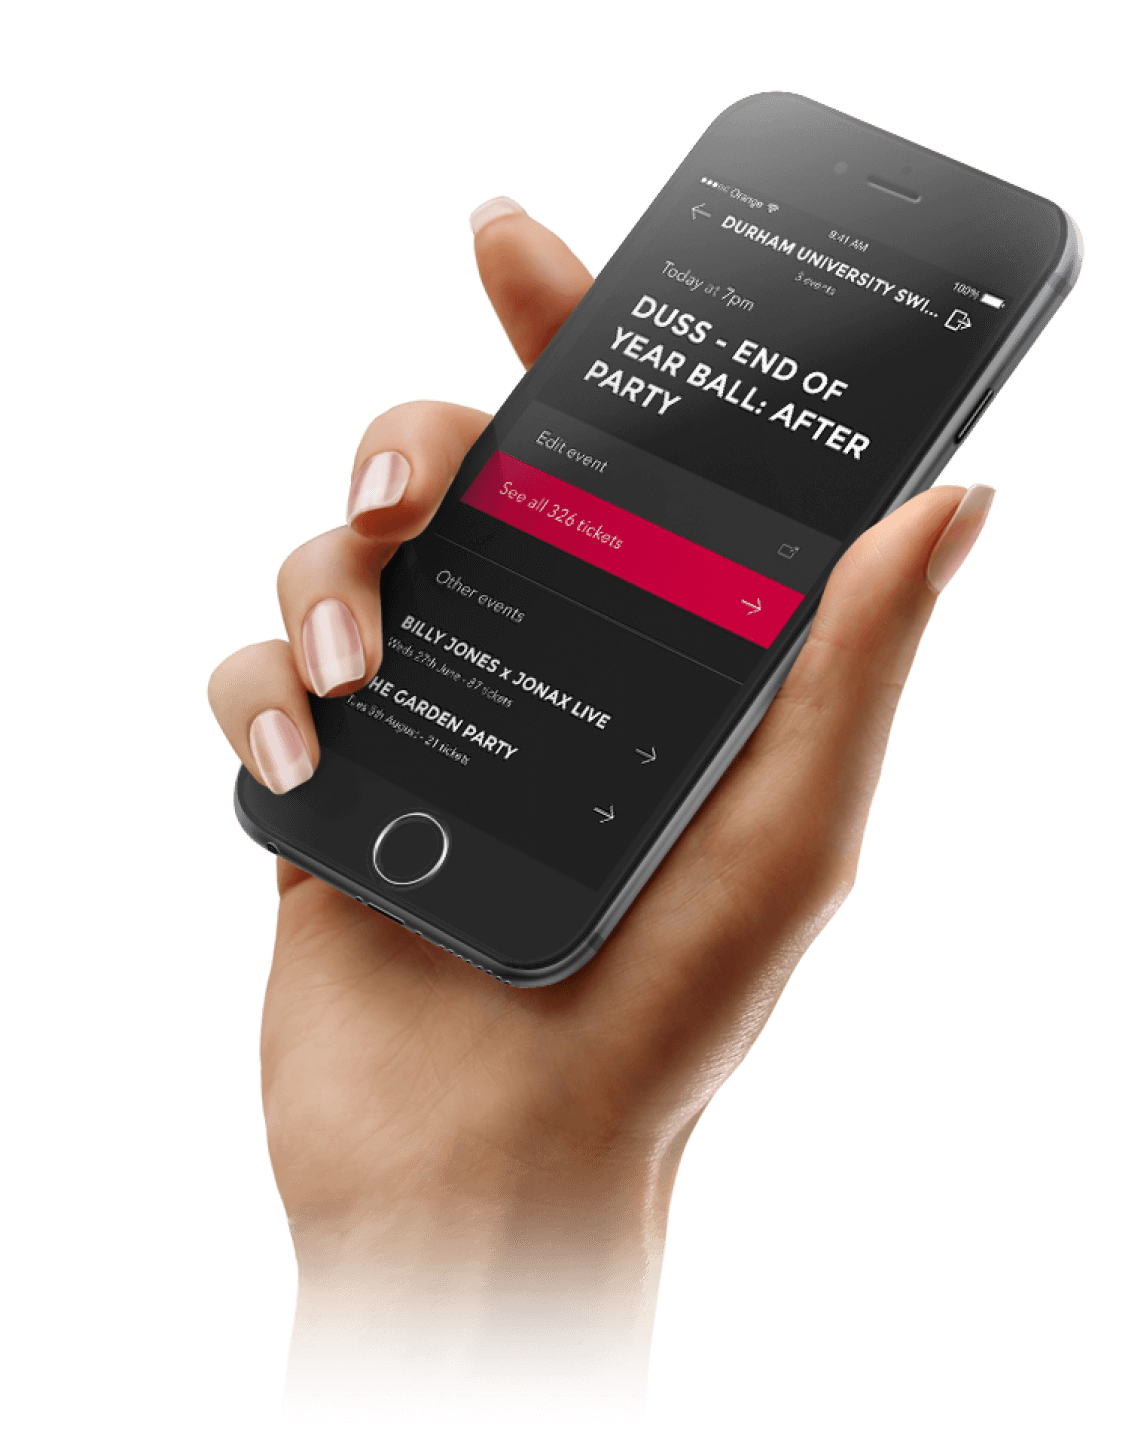
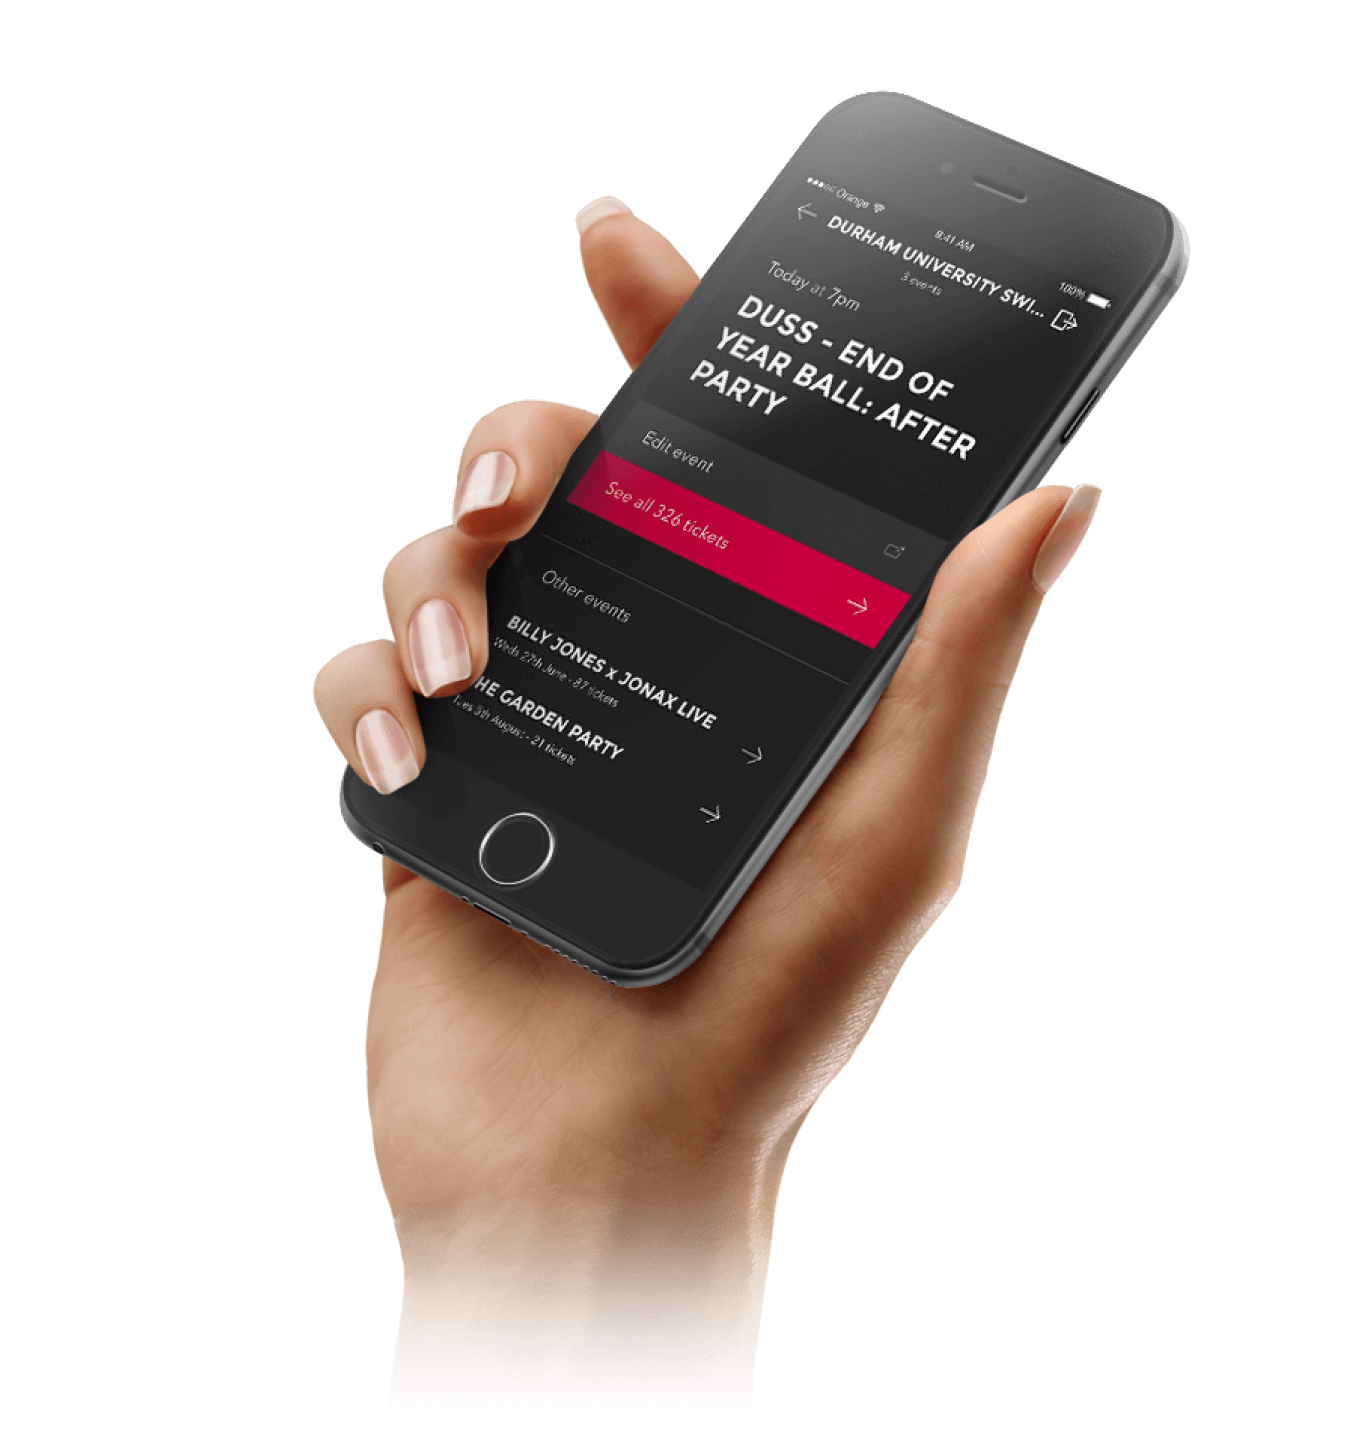
Made animation full screen and keep main image on smaller screen sizes

diff --git a/src/Components/ProjectSummary/index.js b/src/Components/ProjectSummary/index.js
@@ -1,27 +1,28 @@
 import React, { Component } from 'react';
 import styled, { withTheme } from "styled-components";
 
-import Particles from 'react-particles-js';
-
 const MainImg = styled.img`
 position: absolute;
-margin-top: -80px;
+
+    @media (max-width: 768px) {
+        position: relative;
+    }
 `
 
 const Background = styled.div`
-    position: absolute;
-    left: 0;
-    top: 0;
-    width: 100%;
-    height: 800px;
 `
 
 const Container = styled.div`
     padding: 80px 0 30px 0;
+    
+    @media (max-width: 768px) {
+        padding: 30px 0 30px 0;
+    }
 `
 
 const ProjectLogo = styled.div`
     padding: 30px 0;
+    
 `
 
 const SectionHeader = styled.h2`
@@ -32,82 +33,19 @@ const SectionHeader = styled.h2`
 class ProjectSummary extends Component {
     render() {
         return (
-            
             <Container className="container">
-            <Background>
-                <Particles
-                    params={{
-                        particles: {
-                            number: {
-                                value: "50",
-                                density: {
-                                  enable: true,
-                                  value_area: "800"
-                                }
-                              },
-                              color: {
-                                value: "#CCCCCC"
-                              },
-                              shape: {
-                                type: "circle",
-                                stroke: {
-                                  width: "0",
-                                  color: "#000000"
-                                },
-                                polygon: {
-                                  nb_sides: "5"
-                                },
-                                image: {
-                                  src: "img/github.svg",
-                                  width: "100",
-                                  height: "100"
-                                }
-                              },
-                              opacity: {
-                                value: "1",
-                                random: false,
-                                anim: {
-                                  enable: true,
-                                  speed: "0.001",
-                                  opacity_min: "0.1",
-                                  sync: true
-                                }
-                              },
-                              size: {
-                                value: "2",
-                                random: false,
-                                anim: {
-                                  enable: false,
-                                  speed: "20",
-                                  size_min: "0.1",
-                                  sync: false
-                                }
-                              },
-                            line_linked: {
-                                enable: true,
-                                distance: "150",
-                                color: "#CCCCCC",
-                                opacity: "1",
-                                width: "1"
-                            }
-                        }
-                    }}
-                  style={{
-                    width: '100%',
-                  }}
-                />
-            </Background>
                 <div className="row">
-                    <div className="col-md-6 col-sm-10 offset-sm-1 offset-md-0">
+                    <div className="col-10 offset-1 col-sm-8 offset-sm-2 col-md-6 offset-md-0 order-md-2">
+                        <MainImg src={this.props.mainImg} className="img-fluid"></MainImg>
+                    </div>
+                    <div className="col-sm-10 offset-sm-1 col-md-6 offset-md-0">
                         <ProjectLogo className="col-6 ">
                             <img src={this.props.projectLogo} className="img-fluid"/>
                         </ProjectLogo>
                         <SectionHeader>{this.props.projectName}</SectionHeader>
                         <p>{this.props.synopsis}</p>
                     </div>
-                    <div className="col-md-6">
-                        <MainImg src={this.props.mainImg} className="img-fluid d-none d-md-block"></MainImg>
-                    </div>
+                    
                 </div>
             </Container>
         )

diff --git a/src/Components/Backgrounds/Particles/index.js b/src/Components/Backgrounds/Particles/index.js
@@ -1,0 +1,80 @@
+import React from 'react';
+import Particles from 'react-particles-js';
+
+import styled from "styled-components";
+
+const ParticleContainer = styled(Particles)`
+    position: absolute;
+    left: 0;
+    top: 0;
+    width: 100%;
+    height: 100vh
+`
+
+export default class ParticleBackground extends React.Component {
+    render(){
+        return (
+            <ParticleContainer
+                params={{
+                    particles: {
+                        number: {
+                            value: "50",
+                            density: {
+                                enable: true,
+                                value_area: "800"
+                            }
+                            },
+                            color: {
+                            value: "#CCCCCC"
+                            },
+                            shape: {
+                            type: "circle",
+                            stroke: {
+                                width: "0",
+                                color: "#000000"
+                            },
+                            polygon: {
+                                nb_sides: "5"
+                            },
+                            image: {
+                                src: "img/github.svg",
+                                width: "100",
+                                height: "100"
+                            }
+                            },
+                            opacity: {
+                            value: "1",
+                            random: false,
+                            anim: {
+                                enable: true,
+                                speed: "0.001",
+                                opacity_min: "0.1",
+                                sync: true
+                            }
+                            },
+                            size: {
+                            value: "2",
+                            random: false,
+                            anim: {
+                                enable: false,
+                                speed: "20",
+                                size_min: "0.1",
+                                sync: false
+                            }
+                            },
+                        line_linked: {
+                            enable: true,
+                            distance: "150",
+                            color: "#CCCCCC",
+                            opacity: "1",
+                            width: "1"
+                        }
+                    }
+                }}
+                style={{
+                width: '100%',
+                }}
+            />
+        );
+    }
+}

diff --git a/src/Pages/Projects/Triptease/index.js b/src/Pages/Projects/Triptease/index.js
@@ -9,9 +9,10 @@ import img2 from './response-flow.png';
 import img3 from './example-response-screenshot.png';
 import img4 from './fallback.png';
 
-import ProjectSummary from '../../../Components/ProjectSummary'
+import ParticleBackground from '../../../Components/Backgrounds/Particles';
+
+import ProjectSummary from '../../../Components/ProjectSummary';
 import TextSection from '../../../Components/TextSections/TextSection';
-import TextLeftImgRight from '../../../Components/TextSections/TextLeftImgRight';
 import SingleImage from '../../../Components/Images/SingleImage';
 
 const Container = styled.div`
@@ -47,6 +48,7 @@ class Triptease extends Component {
     render() {
         return (
             <Container onLoad={this.changeColor.bind(this)} className="page">
+                <ParticleBackground/>
                 <ProjectSummary
                     projectLogo={Logo}
                     projectName="A.I. Augmented Chat"
